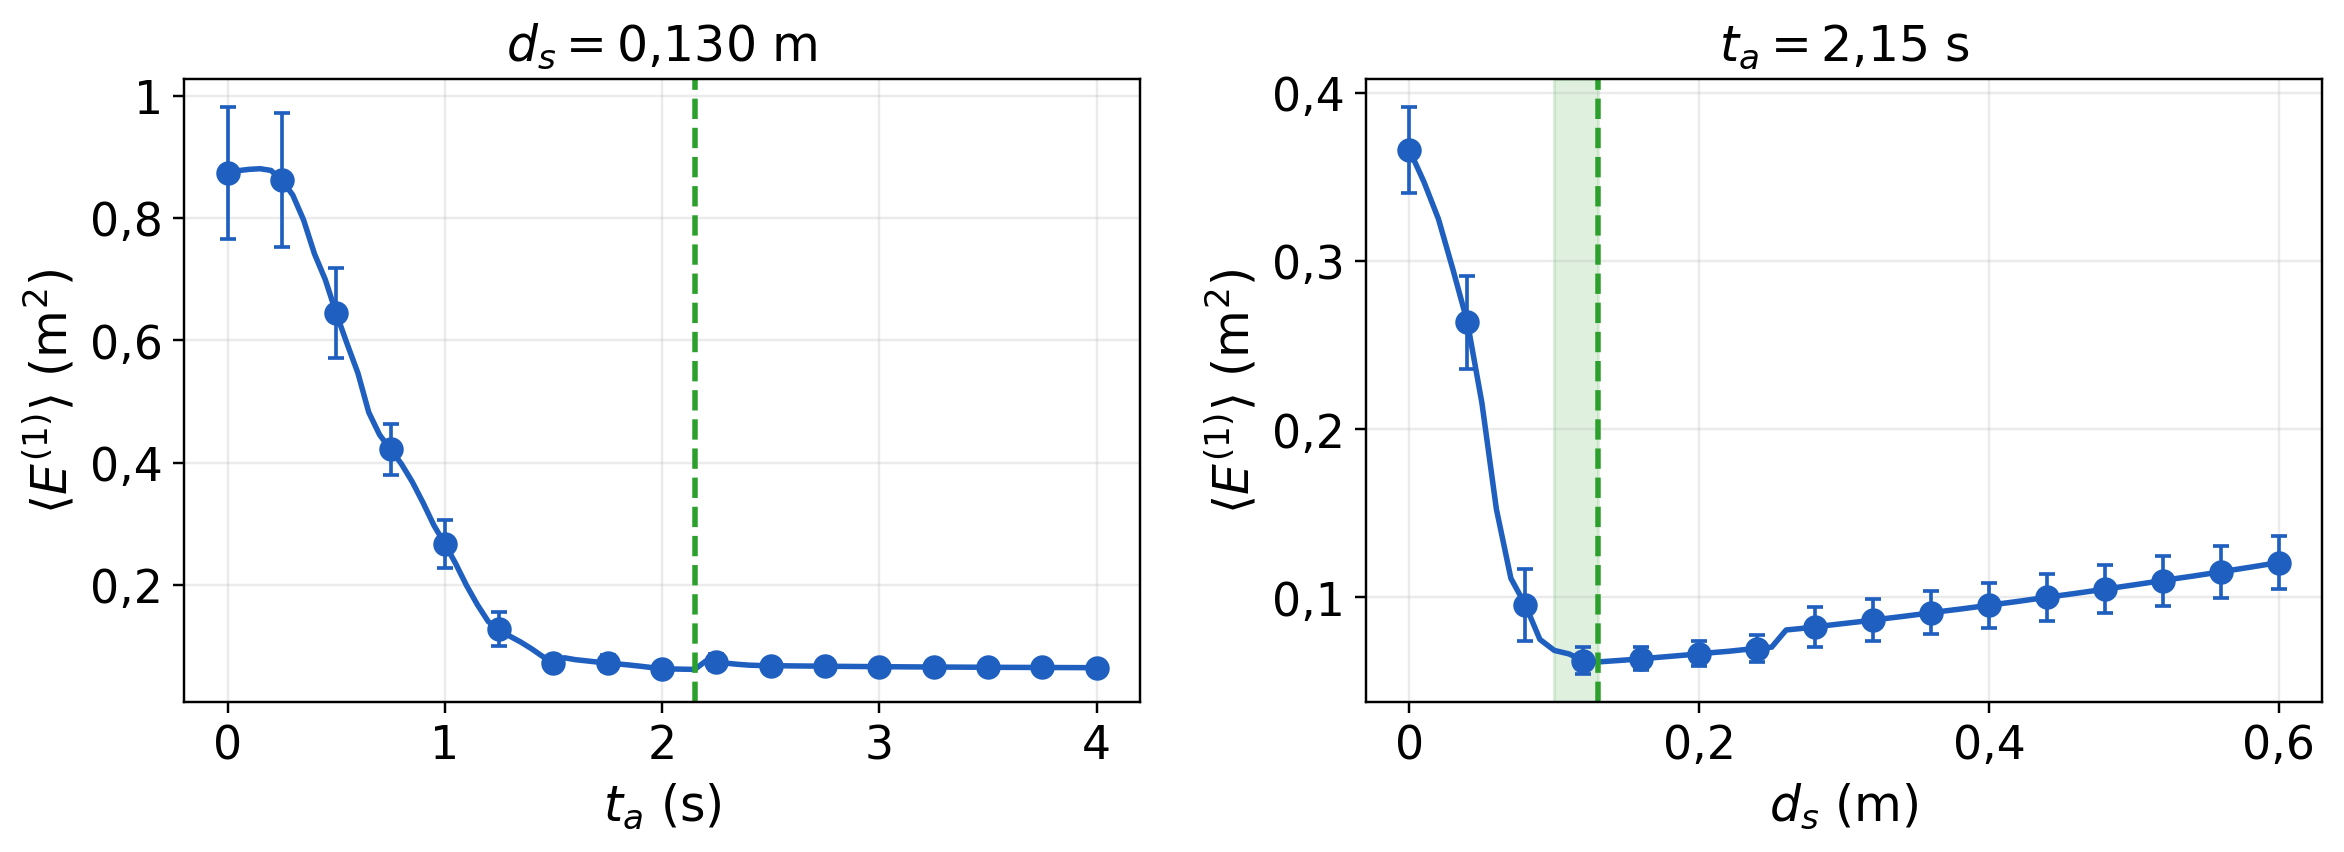
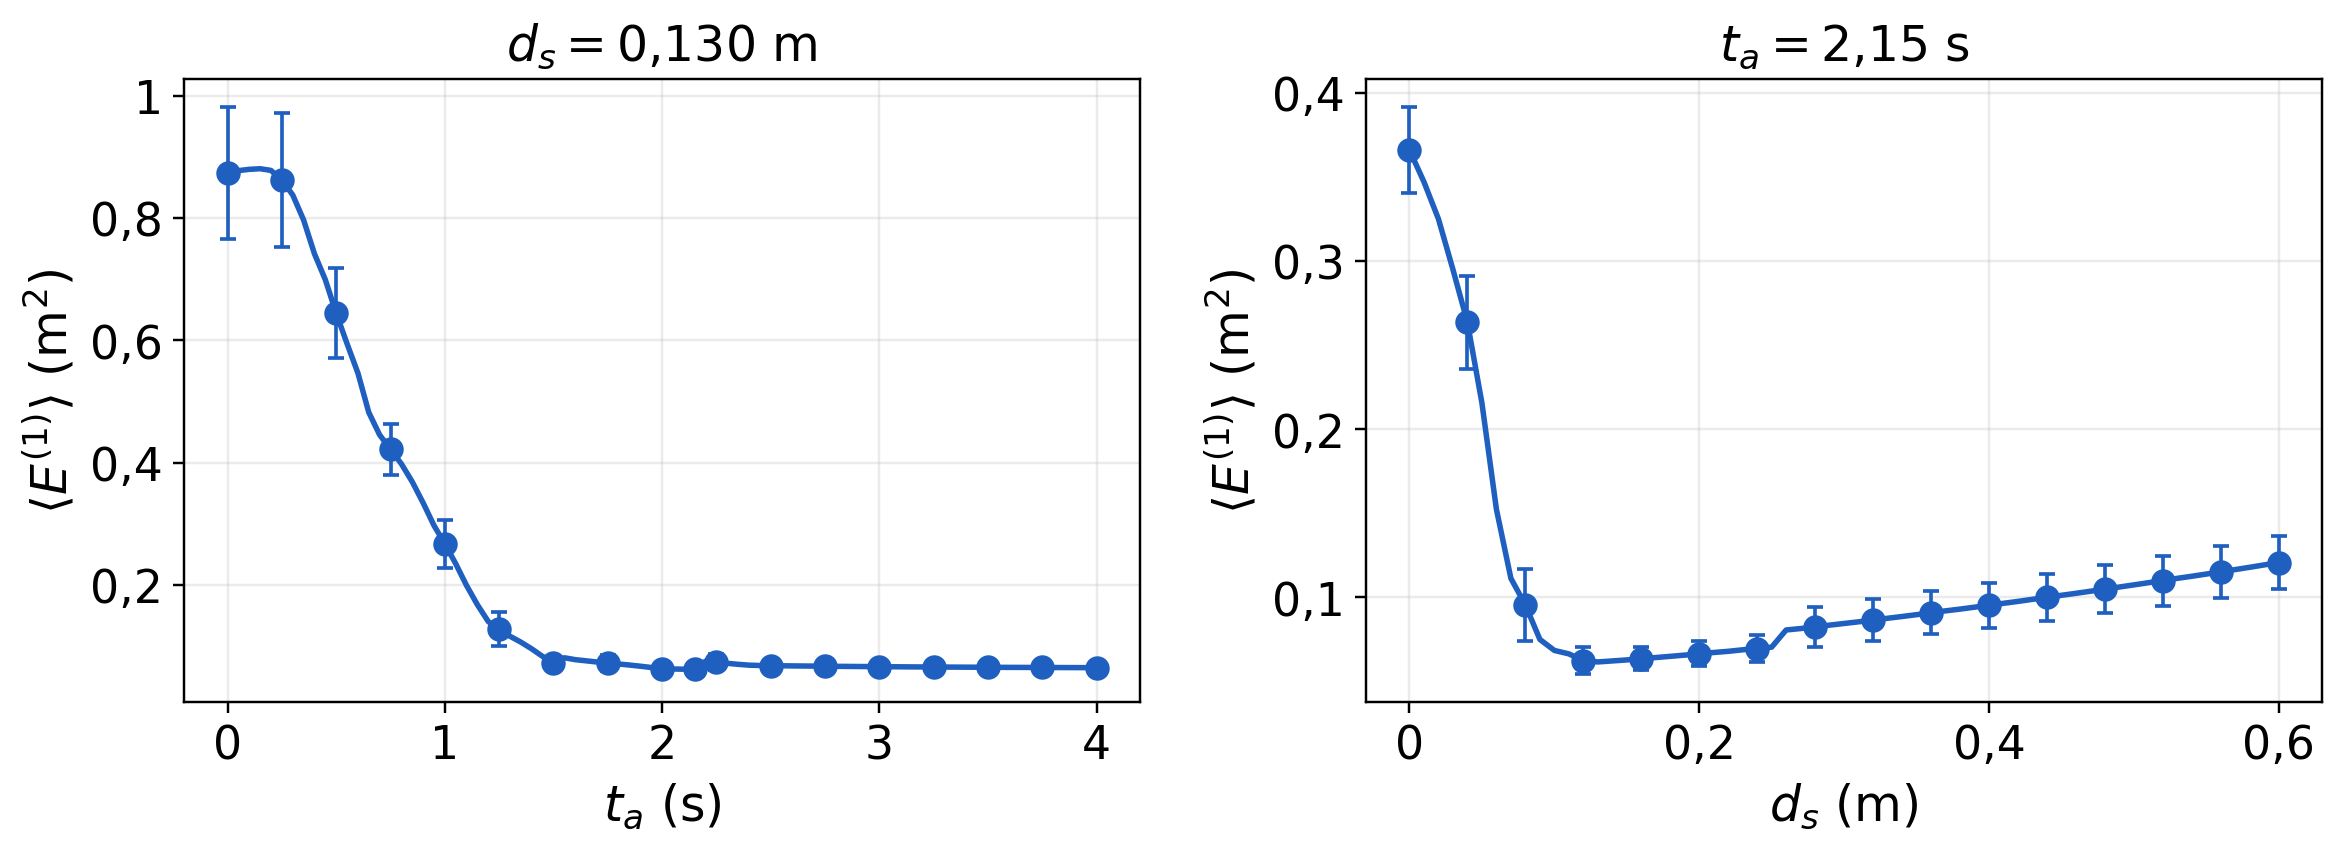
Cortes por el óptimo sin la línea vertical ni la franja; el punto del óptimo donde no había uno

Changed region(s): [[0.654, 0.0915, 0.6852, 0.8239], [0.2803, 0.7629, 0.3114, 0.8239]]

diff --git a/visualization/population.py b/visualization/population.py
@@ -73,10 +73,9 @@ def cuts(p1, p2, event_error, region, metric, figures, style):
 
     La curva va entera y las barras cada pocos puntos: con 81 y 61 valores de
     grilla, una barra por punto tapa la curva. La barra es el error estandar de
-    la media entre los M eventos; la franja verde, que va solo en el corte de
-    d_s, es el tramo que EMPATA con el optimo segun la diferencia pareada, que
-    es la incertidumbre que de verdad tiene el parametro. La linea cortada es
-    el optimo.
+    la media entre los M eventos. El optimo no lleva linea vertical ni franja
+    (lo pidio el grupo: el valor va escrito en la diapositiva); solo se le
+    agrega su punto cuando no coincide con ninguno de los dibujados.
     """
     common.use_style(style)
     mean, sem = common.population(event_error)
@@ -91,13 +90,14 @@ def cuts(p1, p2, event_error, region, metric, figures, style):
         axes.plot(values, curve, color=color, linewidth=1.8)
         axes.errorbar(values[::every], curve[::every], yerr=bars[::every], color=color,
                       marker=marker, **common.ERRORBAR)
-        # La franja de los valores que empatan va solo en el corte de d_s: en
-        # el de t_a la curva es plana desde 1,5 s y la franja tapaba medio
-        # panel sin agregar nada (la catedra pidio sacarla, 13/11).
-        if inside.any() and label == common.AXIS_P2:
-            axes.axvspan(values[inside].min(), values[inside].max(), color="#2ca02c",
-                         alpha=0.15)
-        axes.axvline(best, color="#2ca02c", linestyle="--", linewidth=1.8)
+        # Sin linea ni franja en el optimo (el valor se escribe a mano en la
+        # diapositiva). Si el optimo no cae en uno de los puntos dibujados ni
+        # pegado a uno, se agrega su punto, con su barra, para que se vea.
+        index = int(np.argmin(np.abs(values - best)))
+        nearest = min(abs(index - k) for k in range(0, len(values), every))
+        if nearest > 1:
+            axes.errorbar([values[index]], [curve[index]], yerr=[bars[index]], color=color,
+                          marker=marker, **common.ERRORBAR)
         axes.set_xlabel(label)
         axes.set_ylabel(common.METRIC_AVERAGE[metric])
     axesrow[0].set_title(f"$d_s = {common.math_decimal(p2[j], 3)}$ m",

diff --git a/report/presentacion.tex b/report/presentacion.tex
@@ -671,7 +671,7 @@
         \colvin{%
             \item $d_s$ sí tiene un mínimo claro en \SI{0.13}{\meter} y sube
                   después: es el parámetro que fija por dónde se pasa.
-            \cond{barra: error estándar de la media entre los 19 eventos; línea cortada: el óptimo; franja verde: los $d_s$ que empatan con el óptimo según la diferencia pareada}}
+            \cond{barra: error estándar de la media entre los 19 eventos; cada corte pasa por el óptimo, $(\SI{2.15}{\second};\ \SI{0.13}{\meter})$}}
     }
 \end{frame}
 
@@ -701,7 +701,7 @@
             \item Los escalones de \mEdos{} en $t_a \approx 1{,}5$ y
                   \SI{2.2}{\second} son \textbf{dos eventos} (17 y 16) en los
                   que el lado por el que elude el modelo cambia con $t_a$.
-            \cond{mismas 19 realizaciones; franja verde: los $d_s$ que empatan con el óptimo}}
+            \cond{mismas 19 realizaciones; cada corte pasa por el óptimo, $(\SI{1.50}{\second};\ \SI{0.14}{\meter})$}}
     }
 \end{frame}
 

diff --git a/README.md b/README.md
@@ -396,7 +396,7 @@ informó el motor, para que el camino corto esté verificado contra el largo.
 | `trajectory.py` | a | por evento: trayectorias medidas y simuladas superpuestas, el observable primario `e(t)` de las dos métricas con su promedio temporal, y la distancia entre los dos peatones con `2r` y `D` marcados |
 | `animate.py` | a | animación del evento (un cuadro por instante medido: a 15 cuadros por segundo corre en tiempo real) y cuadro fijo con `--cruce`, congelado en el último instante en conflicto antes del cruce simulado |
 | `mosaico.py` | a | los 19 eventos animados a la vez, un panel por evento: la verificación a ojo de que cada ventana es el cruce y no la fila |
-| `population.py` | b | mapa de `<E>(t_a,d_s)` (escala logarítmica, con el óptimo marcado y nada más); los dos cortes por el óptimo con barras de error (y, en el de `d_s`, la franja de los valores que empatan); el barrido largo de `t_a` |
+| `population.py` | b | mapa de `<E>(t_a,d_s)` (escala logarítmica, con el óptimo marcado y nada más); los dos cortes por el óptimo con barras de error (sin línea ni franja en el óptimo; se agrega su punto si no coincide con uno dibujado); el barrido largo de `t_a` |
 | `individual.py` | c | histograma de los 19 óptimos individuales de cada parámetro con una línea vertical en el óptimo global, y el error de cada evento con los parámetros poblacionales contra los propios |
 | `pares.py` | c opcional | histograma de los 38 óptimos por peatón con la línea del óptimo global, y el error de cada evento con uno, dos y cuatro juegos de parámetros |
 | `residual.py` | c | de dónde viene el error que queda: `E(1)_m` abierto en la componente a lo largo del camino nominal (ritmo) y la perpendicular (forma), y el desvío lateral en el cruce medido contra simulado, que dice si el modelo eludió por el mismo lado |
@@ -471,10 +471,12 @@ más ajustado).
 Los dos óptimos coinciden en `d_s` y difieren en `t_a`. Usar el óptimo de la
 métrica 2 cuesta un 1,9 % de `<E(1)>`; al revés, un 18 % de `<E(2)>`.
 
-En la figura de los cortes la franja verde de los valores que empatan va sólo
-en el corte de `d_s`; en el de `t_a` se sacó (la cátedra lo pidió el 13/11: la
-curva es plana desde 1,5 s y la franja tapaba medio panel) y queda la línea
-del óptimo.
+La figura de los cortes no lleva línea vertical ni franja en el óptimo (el
+valor se escribe en la diapositiva): son la curva y sus barras de error. Sólo
+se agrega el punto del óptimo cuando no coincide con ninguno de los dibujados
+ni queda pegado a uno (el de `t_a = 2,15 s` con la métrica 1 y el de
+`d_s = 0,14 m` con la 2). Los `d_s` que empatan con el óptimo según la
+diferencia pareada se informan por consola.
 
 `t_a` queda determinado **sólo por abajo**: `<E(1)>` cae de 0,87 a 0,07 m²
 entre 0 y 1,5 s y después es plano (0,065 m² en 4 s). Tiene una explicación

diff --git a/report/guion.md b/report/guion.md
@@ -220,7 +220,7 @@ están en el README (21, 26, 35, 33, 30, 10, 16, en ese orden).
 - t_a sólo queda determinado por abajo: cae hasta 1,5 s y después es plano,
   hasta 8 s. El cruce llega entre 2,1 y 2,7 s después de empezar: con más
   anticipación el conflicto se declara desde el primer instante. d_s sí tiene
-  mínimo claro en 0,13 m; la franja verde son los d_s que empatan con el óptimo.
+  mínimo claro en 0,13 m.
 
 ## 25. Mapa, métrica 2 — `slide-25-superficie-metrica2.png` — 0:20 (C)
 
